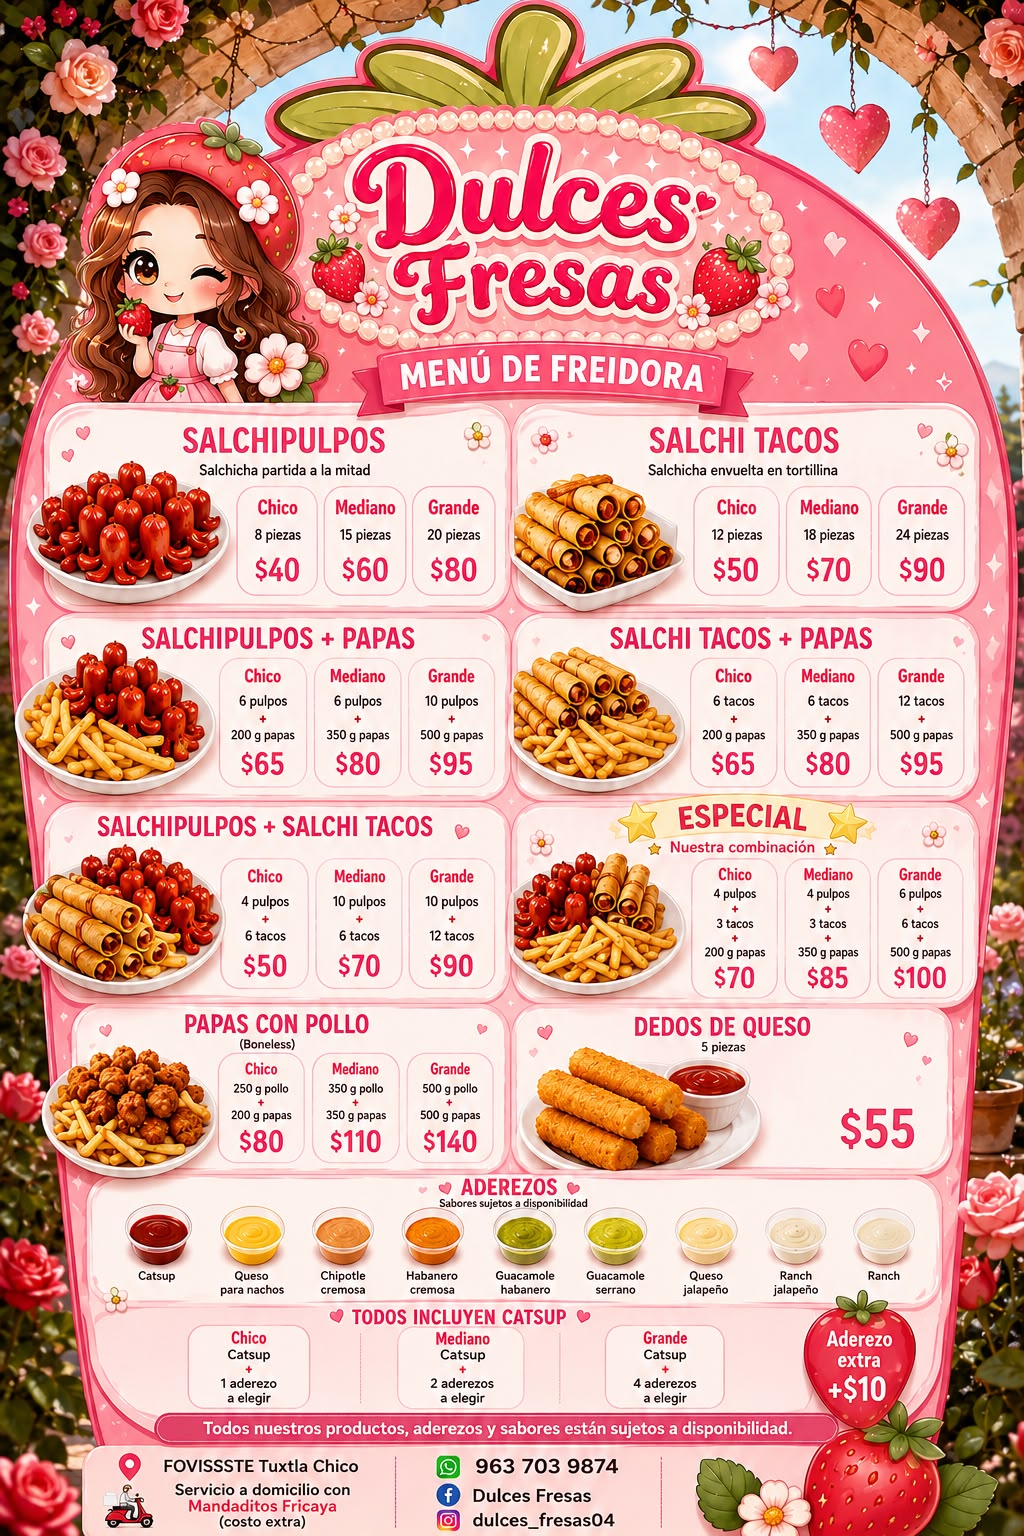
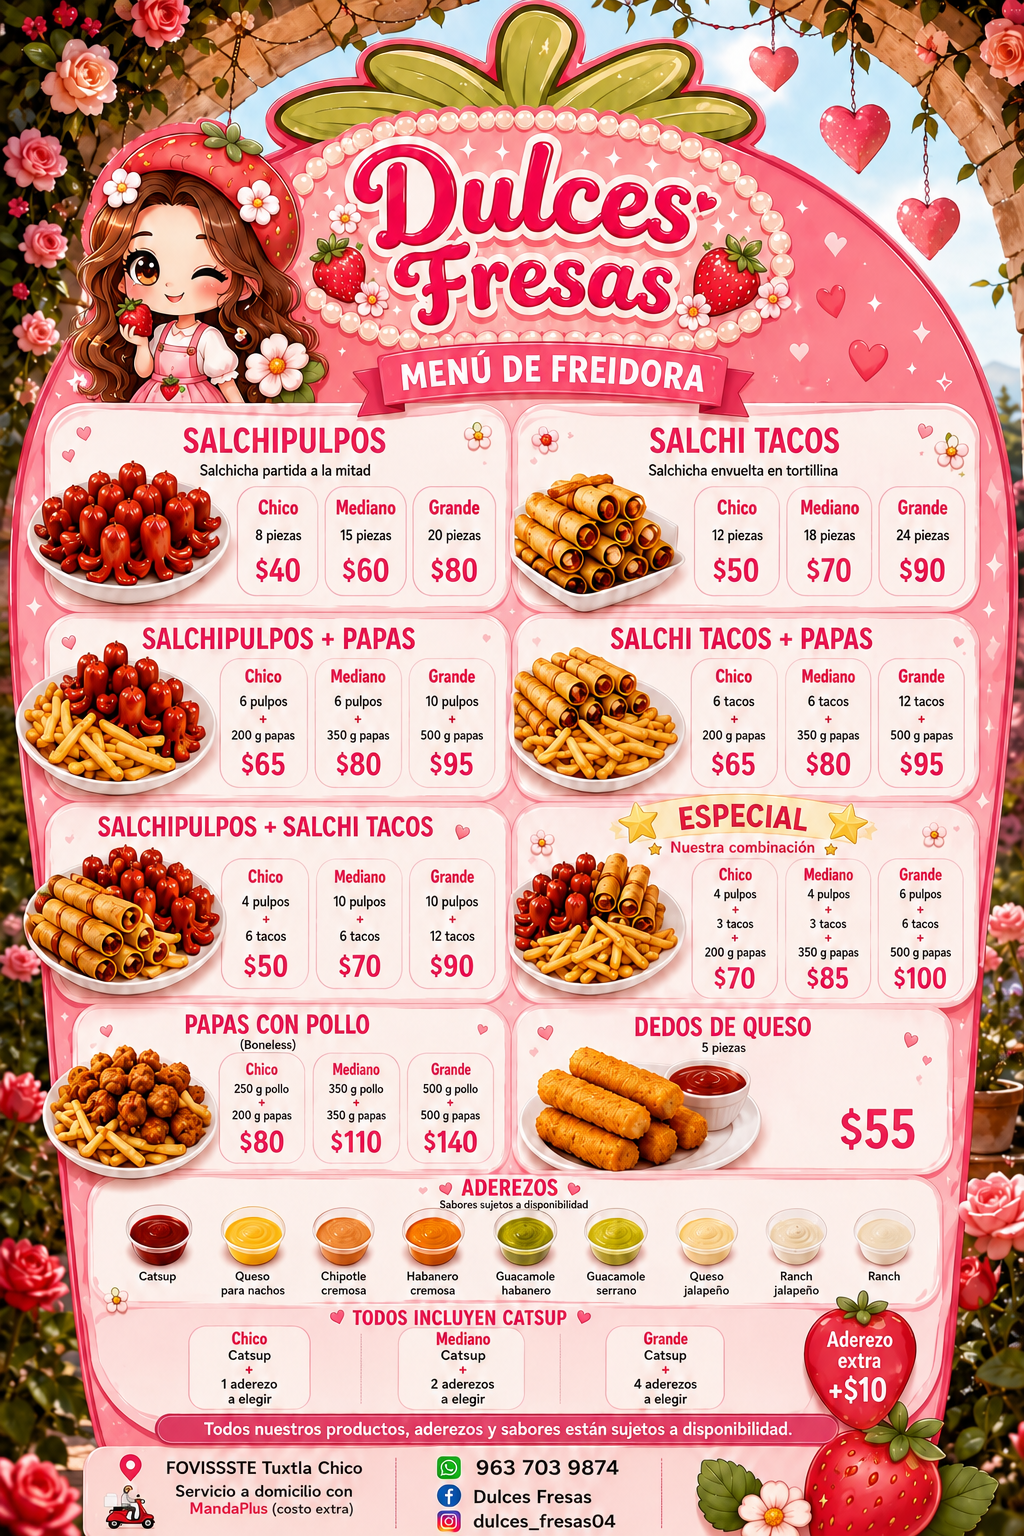
Agregar La Creperia 3 Hermanos y actualizar menus de Dulces Fresas

diff --git a/src/negocios.js b/src/negocios.js
@@ -4945,6 +4945,269 @@ const negocios = [
       }
     ]
   }
+,
+
+  {
+    id: "la-creperia-3-hermanos",
+    nombre: "La Crepería 3 Hermanos",
+    emoji: "🧇",
+    descripcion: "Crepas, waffles, mini hotcakes, frappés, malteadas, alitas, boneless, micheladas y Korean Dog",
+    imagen: "/negocios/la-creperia-3-hermanos.jpg",
+    productosGrandes: true,
+    menuOriginales: [
+      {
+        titulo: "Desayuno sorpresa",
+        imagen: "/menus/la-creperia-3-hermanos/menu-desayuno-sorpresa.jpg"
+      },
+      {
+        titulo: "Nuestro menú",
+        imagen: "/menus/la-creperia-3-hermanos/menu-general.jpg"
+      },
+      {
+        titulo: "Korean Dog",
+        imagen: "/menus/la-creperia-3-hermanos/menu-korean-dog.jpg"
+      }
+    ],
+    horarios: [
+      { dias: [1, 2, 3, 4, 5], abre: "16:00", cierra: "22:00" },
+      { dias: [0, 6], abre: "15:00", cierra: "22:00" },
+    ],
+    productos: [
+      {
+        id: "desayuno-sorpresa-creperia-3-hermanos",
+        nombre: "Desayuno sorpresa",
+        precio: null,
+        precioTexto: "Precio a consultar",
+        descripcion: "Arma tu propia charola, plato o caja Crepizza. Puedes incluir waffle, hotcake, crepa, minipastel, boneless, alitas, papas, salchipapa, club sandwich, fruta y bebidas.",
+        imagen: "/negocios/la-creperia-3-hermanos.jpg",
+            textoSelector: "Elige una presentación:",
+        opciones: [
+          {
+            id: "charola-sorpresa-creperia-3-hermanos",
+            nombre: "Charola sorpresa",
+            precio: null,
+            precioTexto: "Precio a consultar",
+            descripcion: "Personalizable con alimentos, bebidas y detalles decorativos."
+          },
+          {
+            id: "plato-sorpresa-creperia-3-hermanos",
+            nombre: "Plato sorpresa",
+            precio: null,
+            precioTexto: "Precio a consultar",
+            descripcion: "Personalizable con alimentos, bebidas y detalles decorativos."
+          },
+          {
+            id: "caja-crepizza-creperia-3-hermanos",
+            nombre: "Caja Crepizza",
+            precio: null,
+            precioTexto: "Precio a consultar",
+            descripcion: "Personalizable con alimentos, bebidas y detalles decorativos."
+          }
+        ]
+      },
+      {
+        id: "mini-hotcake-creperia-3-hermanos",
+        nombre: "Mini hotcake (10)",
+        precio: null,
+        precioTexto: "$70",
+        descripcion: "Mini hotcakes con el topping de tu elección.",
+        imagen: "/negocios/la-creperia-3-hermanos.jpg",
+            textoSelector: "Elige el sabor:",
+        opciones: [
+          { id: "mini-hotcake-fresa-creperia-3-hermanos", nombre: "Mermelada de fresa", precio: 70, descripcion: "Mini hotcake con mermelada de fresa." },
+          { id: "mini-hotcake-zarzamora-creperia-3-hermanos", nombre: "Mermelada de zarzamora", precio: 70, descripcion: "Mini hotcake con mermelada de zarzamora." },
+          { id: "mini-hotcake-cajeta-creperia-3-hermanos", nombre: "Cajeta", precio: 70, descripcion: "Mini hotcake con cajeta." },
+          { id: "mini-hotcake-nutella-creperia-3-hermanos", nombre: "Nutella", precio: 70, descripcion: "Mini hotcake con Nutella." }
+        ]
+      },
+      {
+        id: "crepa-o-wafle-dulce-creperia-3-hermanos",
+        nombre: "Crepa o waffle dulce",
+        precio: null,
+        precioTexto: "Desde $50",
+        descripcion: "Crepa o waffle dulce con diferentes rellenos.",
+        imagen: "/negocios/la-creperia-3-hermanos.jpg",
+            textoSelector: "Elige tu opción:",
+        opciones: [
+          { id: "crepa-waffle-dulce-fresa-creperia-3-hermanos", nombre: "Dulce — Mermelada de fresa", precio: 50, descripcion: "Crepa o waffle dulce." },
+          { id: "crepa-waffle-dulce-zarzamora-creperia-3-hermanos", nombre: "Dulce — Mermelada de zarzamora", precio: 50, descripcion: "Crepa o waffle dulce." },
+          { id: "crepa-waffle-dulce-cajeta-creperia-3-hermanos", nombre: "Dulce — Cajeta", precio: 50, descripcion: "Crepa o waffle dulce." },
+          { id: "crepa-waffle-dulce-philadelphia-creperia-3-hermanos", nombre: "Dulce — Philadelphia", precio: 50, descripcion: "Crepa o waffle dulce." },
+          { id: "crepa-waffle-dulce-lechera-creperia-3-hermanos", nombre: "Dulce — Lechera", precio: 50, descripcion: "Crepa o waffle dulce." },
+          { id: "crepa-waffle-dulce-miel-creperia-3-hermanos", nombre: "Dulce — Miel", precio: 50, descripcion: "Crepa o waffle dulce." },
+          { id: "crepa-waffle-dulce-nutella-creperia-3-hermanos", nombre: "Dulce — Nutella", precio: 55, descripcion: "Crepa o waffle dulce con Nutella." }
+        ]
+      },
+      {
+        id: "crepa-o-waffle-salada-creperia-3-hermanos",
+        nombre: "Crepa o waffle salada",
+        precio: null,
+        precioTexto: "$50",
+        descripcion: "Crepa o waffle salada.",
+        imagen: "/negocios/la-creperia-3-hermanos.jpg",
+            textoSelector: "Elige tu relleno:",
+        opciones: [
+          { id: "crepa-waffle-salada-jamon-creperia-3-hermanos", nombre: "Jamón", precio: 50, descripcion: "Crepa o waffle salada de jamón." },
+          { id: "crepa-waffle-salada-philadelphia-creperia-3-hermanos", nombre: "Philadelphia", precio: 50, descripcion: "Crepa o waffle salada con Philadelphia." },
+          { id: "crepa-waffle-salada-manchego-creperia-3-hermanos", nombre: "Manchego", precio: 50, descripcion: "Crepa o waffle salada con manchego." }
+        ]
+      },
+      {
+        id: "especialidades-creperia-3-hermanos",
+        nombre: "Especialidad",
+        precio: null,
+        precioTexto: "$70",
+        descripcion: "Especialidades de crepa o waffle.",
+        imagen: "/negocios/la-creperia-3-hermanos.jpg",
+            textoSelector: "Elige una especialidad:",
+        opciones: [
+          { id: "especialidad-extrema-creperia-3-hermanos", nombre: "Extrema", precio: 70, descripcion: "Especialidad Extrema." },
+          { id: "especialidad-arcoiris-creperia-3-hermanos", nombre: "Arcoíris", precio: 70, descripcion: "Especialidad Arcoíris." },
+          { id: "especialidad-hawaiana-creperia-3-hermanos", nombre: "Hawaiana", precio: 70, descripcion: "Especialidad Hawaiana." },
+          { id: "especialidad-pizza-peperoni-creperia-3-hermanos", nombre: "Pizza (peperoni)", precio: 70, descripcion: "Especialidad estilo pizza de peperoni." }
+        ]
+      },
+      {
+        id: "toppings-extras-creperia-3-hermanos",
+        nombre: "Topping y extras",
+        precio: null,
+        precioTexto: "Desde $5",
+        descripcion: "Toppings y extras para crepas o waffles.",
+        imagen: "/negocios/la-creperia-3-hermanos.jpg",
+            textoSelector: "Elige una opción:",
+        opciones: [
+          { id: "topping-luneta-creperia-3-hermanos", nombre: "Topping — Luneta", precio: 10, descripcion: "Topping extra." },
+          { id: "topping-fresa-natural-creperia-3-hermanos", nombre: "Topping — Fresa natural", precio: 10, descripcion: "Topping extra." },
+          { id: "topping-guineo-creperia-3-hermanos", nombre: "Topping — Guineo", precio: 10, descripcion: "Topping extra." },
+          { id: "topping-nuez-creperia-3-hermanos", nombre: "Topping — Nuez", precio: 10, descripcion: "Topping extra." },
+          { id: "topping-oreo-creperia-3-hermanos", nombre: "Topping — Oreo", precio: 10, descripcion: "Topping extra." },
+          { id: "topping-kranki-creperia-3-hermanos", nombre: "Topping — Kranki", precio: 10, descripcion: "Topping extra." },
+          { id: "topping-bombom-creperia-3-hermanos", nombre: "Topping — Bombom", precio: 10, descripcion: "Topping extra." },
+          { id: "ingrediente-extra-creperia-3-hermanos", nombre: "Ingrediente extra para crepa o waffle", precio: 5, descripcion: "Ingrediente extra." }
+        ]
+      },
+      {
+        id: "alitas-y-boneless-creperia-3-hermanos",
+        nombre: "Alitas y boneless",
+        precio: null,
+        precioTexto: "Desde $90",
+        descripcion: "Alitas y boneless con salsa a elegir.",
+        imagen: "/negocios/la-creperia-3-hermanos.jpg",
+            textoSelector: "Elige cantidad y salsa:",
+        opciones: [
+          {
+            id: "alitas-boneless-5-piezas-creperia-3-hermanos",
+            nombre: "5 piezas",
+            precio: 90,
+            descripcion: "Elige 1 salsa.",
+            guisos: ["BBQ", "Tamarindo", "Mango habanero", "Buffalo"],
+            maxGuisos: 1,
+            cantidadExactaGuisosExtra: 1,
+            textoSelector: "Elige 1 salsa:"
+          },
+          {
+            id: "alitas-boneless-10-piezas-creperia-3-hermanos",
+            nombre: "10 piezas",
+            precio: 150,
+            descripcion: "Elige 1 salsa.",
+            guisos: ["BBQ", "Tamarindo", "Mango habanero", "Buffalo"],
+            maxGuisos: 1,
+            cantidadExactaGuisosExtra: 1,
+            textoSelector: "Elige 1 salsa:"
+          }
+        ]
+      },
+      {
+        id: "papas-y-salchipapas-creperia-3-hermanos",
+        nombre: "Papas y salchipapas",
+        precio: null,
+        precioTexto: "Desde $50",
+        descripcion: "Papas a la francesa y salchipapas.",
+        imagen: "/negocios/la-creperia-3-hermanos.jpg",
+            textoSelector: "Elige tu opción:",
+        opciones: [
+          { id: "papas-francesa-creperia-3-hermanos", nombre: "Papas a la francesa", precio: 50, descripcion: "Orden de papas a la francesa." },
+          { id: "salchipapas-creperia-3-hermanos", nombre: "Salchipapas", precio: 60, descripcion: "Orden de salchipapas." }
+        ]
+      },
+      {
+        id: "frappes-creperia-3-hermanos",
+        nombre: "Frappé",
+        precio: null,
+        precioTexto: "Desde $55",
+        descripcion: "Frappés tradicionales y especiales.",
+        imagen: "/negocios/la-creperia-3-hermanos.jpg",
+            textoSelector: "Elige tu frappé:",
+        opciones: [
+          { id: "frappe-tradicional-creperia-3-hermanos", nombre: "Tradicional", precio: 55, descripcion: "Frappé tradicional." },
+          { id: "frappe-oreo-creperia-3-hermanos", nombre: "Oreo", precio: 60, descripcion: "Frappé de Oreo." },
+          { id: "frappe-cajeta-creperia-3-hermanos", nombre: "Cajeta", precio: 60, descripcion: "Frappé de cajeta." },
+          { id: "frappe-gansito-creperia-3-hermanos", nombre: "Gansito", precio: 60, descripcion: "Frappé de Gansito." },
+          { id: "frappe-nutella-creperia-3-hermanos", nombre: "Nutella", precio: 60, descripcion: "Frappé de Nutella." },
+          { id: "frappe-rompope-creperia-3-hermanos", nombre: "Rompope", precio: 80, descripcion: "Frappé de rompope." },
+          { id: "frappe-licor-cafe-creperia-3-hermanos", nombre: "Licor de café", precio: 80, descripcion: "Frappé de licor de café." },
+          { id: "frappe-magnum-creperia-3-hermanos", nombre: "Magnum", precio: 80, descripcion: "Frappé sabor Magnum." }
+        ]
+      },
+      {
+        id: "malteadas-creperia-3-hermanos",
+        nombre: "Malteada",
+        precio: null,
+        precioTexto: "$60",
+        descripcion: "Malteadas de fresa o guineo.",
+        imagen: "/negocios/la-creperia-3-hermanos.jpg",
+            textoSelector: "Elige tu malteada:",
+        opciones: [
+          { id: "malteada-fresa-creperia-3-hermanos", nombre: "Fresa", precio: 60, descripcion: "Malteada de fresa." },
+          { id: "malteada-guineo-creperia-3-hermanos", nombre: "Guineo", precio: 60, descripcion: "Malteada de guineo." }
+        ]
+      },
+      {
+        id: "cafes-y-chocolate-creperia-3-hermanos",
+        nombre: "Capuchino y chocolate",
+        precio: null,
+        precioTexto: "$50",
+        descripcion: "Bebidas calientes.",
+        imagen: "/negocios/la-creperia-3-hermanos.jpg",
+            textoSelector: "Elige tu bebida:",
+        opciones: [
+          { id: "capuchino-creperia-3-hermanos", nombre: "Capuchino", precio: 50, descripcion: "Capuchino." },
+          { id: "chocolate-creperia-3-hermanos", nombre: "Chocolate", precio: 50, descripcion: "Chocolate." }
+        ]
+      },
+      {
+        id: "micheladas-creperia-3-hermanos",
+        nombre: "Michelada",
+        precio: null,
+        precioTexto: "Desde $80",
+        descripcion: "Micheladas de varios sabores.",
+        imagen: "/negocios/la-creperia-3-hermanos.jpg",
+            textoSelector: "Elige tu michelada:",
+        opciones: [
+          { id: "michelada-tradicional-creperia-3-hermanos", nombre: "Tradicional", precio: 80, descripcion: "Michelada tradicional." },
+          { id: "michelada-tamarindo-creperia-3-hermanos", nombre: "Tamarindo", precio: 90, descripcion: "Michelada de tamarindo." },
+          { id: "michelada-mango-creperia-3-hermanos", nombre: "Mango", precio: 90, descripcion: "Michelada de mango." }
+        ]
+      },
+      {
+        id: "korean-dog-creperia-3-hermanos",
+        nombre: "Korean Dog",
+        precio: null,
+        precioTexto: "$40",
+        descripcion: "Korean dog con diferentes coberturas.",
+        imagen: "/negocios/la-creperia-3-hermanos.jpg",
+            textoSelector: "Elige tu Korean Dog:",
+        opciones: [
+          { id: "korean-dog-flaming-hot-creperia-3-hermanos", nombre: "Flaming Hot", precio: 40, descripcion: "Korean dog Flaming Hot." },
+          { id: "korean-dog-ramen-creperia-3-hermanos", nombre: "Ramen", precio: 40, descripcion: "Korean dog con ramen." },
+          { id: "korean-dog-cheetos-queso-creperia-3-hermanos", nombre: "Cheetos queso", precio: 40, descripcion: "Korean dog con Cheetos queso." },
+          { id: "korean-dog-papa-creperia-3-hermanos", nombre: "Papa", precio: 40, descripcion: "Korean dog con papa." },
+          { id: "korean-dog-crunch-creperia-3-hermanos", nombre: "Crunch", precio: 40, descripcion: "Korean dog Crunch." }
+        ]
+      }
+    ]
+  }
+
 
 ];
 
